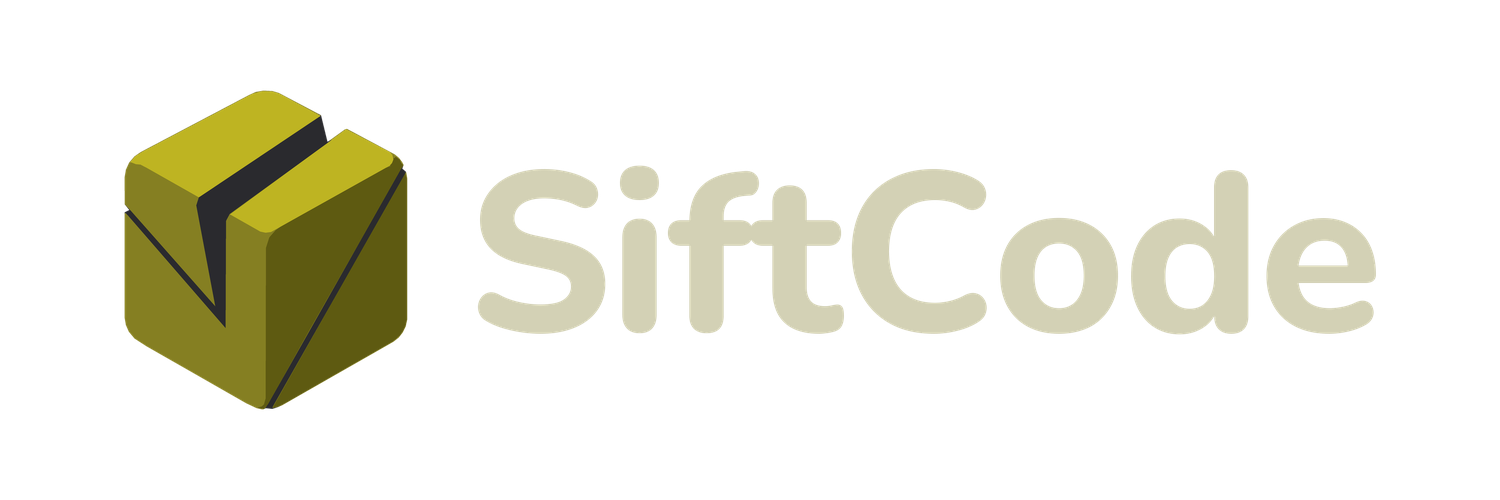
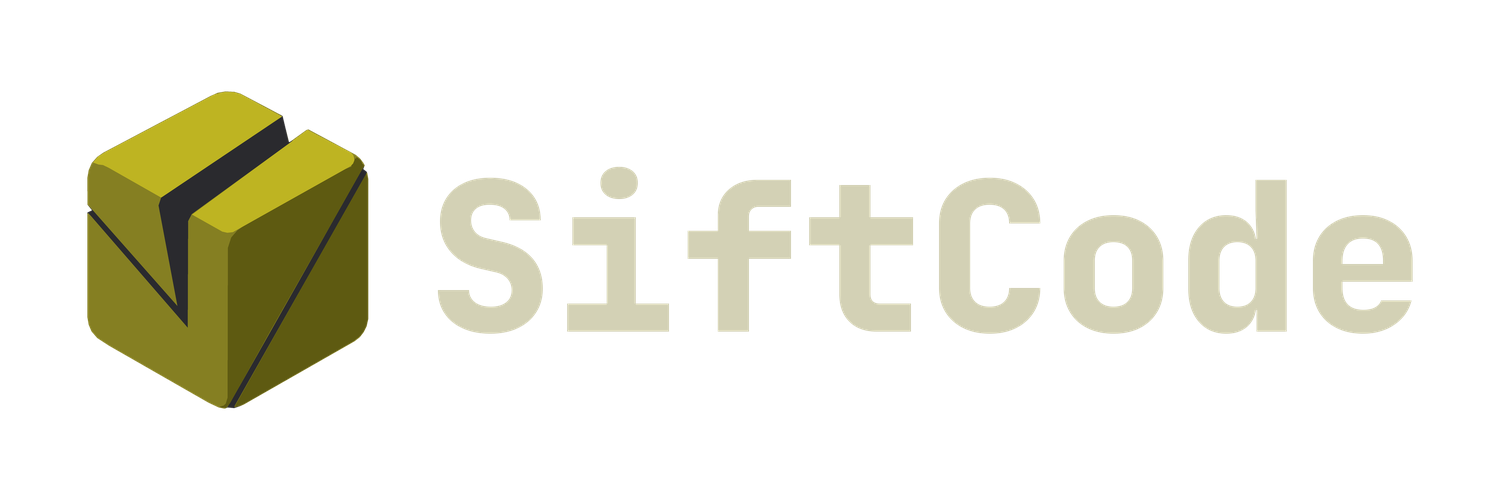
chore: re-sync brand assets after the typeface change
Re-bundle the README set from brandkit 1.49.0 (JetBrains Mono; the banners
are redrawn) and verify with brandkit check. DESIGN.md no longer names a
typeface and now requires the HTML report to load the brand fonts.css and
embed the font rather than hand-write a font-family.

Changed region(s): [[0.0307, 0.18, 0.9507, 0.84]]

diff --git a/docs/DESIGN.md b/docs/DESIGN.md
@@ -1,10 +1,10 @@
 # SiftCode: Design
 
-SiftCode has no app UI. Its user-facing surfaces are the **terminal output** and the **HTML report**. This file defines both. The brand is defined in the `Brand Logos` project (`brands/siftcode/brand.toml`) and is the single source for logo, color, and type. Never retype a brand color, size, or font name here or in code; load the brand tokens. Current brand facts (from the generated `BRAND.md`): product brand "SiftCode", initials **SC**, typeface **Nunito**, brass mark with a two-tone/display wordmark that arrives at teal across "Code".
+SiftCode has no app UI. Its user-facing surfaces are the **terminal output** and the **HTML report**. This file defines both. The brand is defined in the `Brand Logos` project (`brands/siftcode/brand.toml`) and is the single source for logo, color, and type. Never retype a brand color, size, or font name here or in code; load the brand tokens. Current brand facts (from the generated `BRAND.md`, brandkit 1.49.0, 2026-11-01): product brand "SiftCode", initials **SC**, a brass mark with a two-tone/display wordmark that arrives at teal across "Code", and a typeface that the brand's Type section names (JetBrains Mono today). The typeface has already changed once when the brand was rebuilt, so it is never written into code or CSS: the face comes from the brand's `template/fonts.css`.
 
 Brand files in this repo:
 - `docs/brand/` holds the README set (`brandkit bundle siftcode docs/brand --set readme`): the light and dark README banners and `BUNDLE.json`. Verify with `brandkit check siftcode docs/brand --set readme`. Regenerate; never edit by hand.
-- The HTML report (Milestone 6) additionally needs the application set (tokens, font, UI icons including sun, moon, and info). It is bundled into the report build inputs then, not before.
+- The HTML report (Milestone 6) additionally needs the application set (tokens, `template/fonts.css` with `font/*.woff`, UI icons including sun, moon, and info). It is bundled into the report build inputs then, not before, because this repository has no CSS yet. When it does: the report takes its `@font-face` from `template/fonts.css` and embeds the `.woff` as a data URI so the report stays one self-contained file; no stylesheet or script names a font family itself; re-run `brandkit bundle` (and `brandkit check`) whenever the brand is rebuilt.
 - The brand has no tagline or domain set yet; the README must not invent one.
 
 ## 1. Audience and tone
@@ -45,7 +45,7 @@ Tokens come from the brand's `template/tokens.css` and `theme/theme.css` (light 
 |---|---|---|
 | Color roles | brand | `--ink`, `--accent`, `--mute`, `--logo`, `--brand`, `--page`, `--card`, `--line`, `--control`, `--on-brand` |
 | Status colors | brand | `--bad`/`--bad-bg`, `--warn`/`--warn-bg`, `--ok`/`--ok-bg`, `--on-bad` |
-| Type | brand | Nunito via `--font`, `--font-display`, `--mono`; sizes `--fs-xs` (12) to `--fs-3xl` (40) |
+| Type | brand | the brand's face via `--font`, `--font-display`, `--mono` (loaded from `template/fonts.css`, never a hand-written `font-family`); sizes `--fs-xs` (12) to `--fs-3xl` (40) |
 | Spacing | brand | `--s-1` (4) to `--s-8` (64) |
 | Radius | brand | `--r-sm`, `--r-md`, `--r-lg`, `--r-pill` |
 | Motion, breakpoints | brand | breakpoints from the brand's `layout.css`; 150 ms ease for expand/collapse, none under reduced motion |

diff --git a/docs/ROADMAP.md b/docs/ROADMAP.md
@@ -61,7 +61,7 @@ Stories: US-013, US-034.
 
 ### M6: HTML report, explain, baseline (M, planned)
 Goal: shareable self-contained HTML report per DESIGN.md; `explain` command polish; baseline and inline suppressions.
-Depends on: the SiftCode brand (available in `Brand Logos` as of 2026-10-31); bundle the application set into the report inputs at the start of this milestone.
+Depends on: the SiftCode brand (available in `Brand Logos` as of 2026-10-31); bundle the application set into the report inputs at the start of this milestone (`brandkit bundle siftcode <dir>`, then `brandkit check`). Take the typeface from `template/fonts.css` and embed the font file; never write a `font-family` by hand (it changed when the brand was rebuilt on 2026-11-01).
 Exit: WCAG 2.2 AA checks pass (automated plus a keyboard pass); light/dark toggle and info buttons work; checked at 375/768/1280 px with no console errors.
 Stories: US-005, US-070.
 

diff --git a/docs/HANDOFF.md b/docs/HANDOFF.md
@@ -59,6 +59,11 @@ None.
 - `brandkit` is not installed as a package; run it from the Brand Logos repo with
   `PYTHONPATH=src python -m brandkit ...`. Verify the bundle with
   `brandkit check siftcode <repo>/docs/brand --set readme`.
+- Brand re-sync (2026-11-01, brandkit 1.49.0): the typeface changed to JetBrains Mono. The README
+  banners in `docs/brand/` were re-bundled and verified (`brandkit check`). There is no CSS in this
+  repo yet, so nothing named a font; M6 must load `template/fonts.css` and ship the font beside it
+  (see DESIGN.md). After any brand rebuild: `brandkit check siftcode docs/brand --set readme`, and
+  re-bundle if it reports drift.
 - A local hook may require the shell command to start with `timeout N` for long-running commands.
 
 ## Placeholders and stubs
